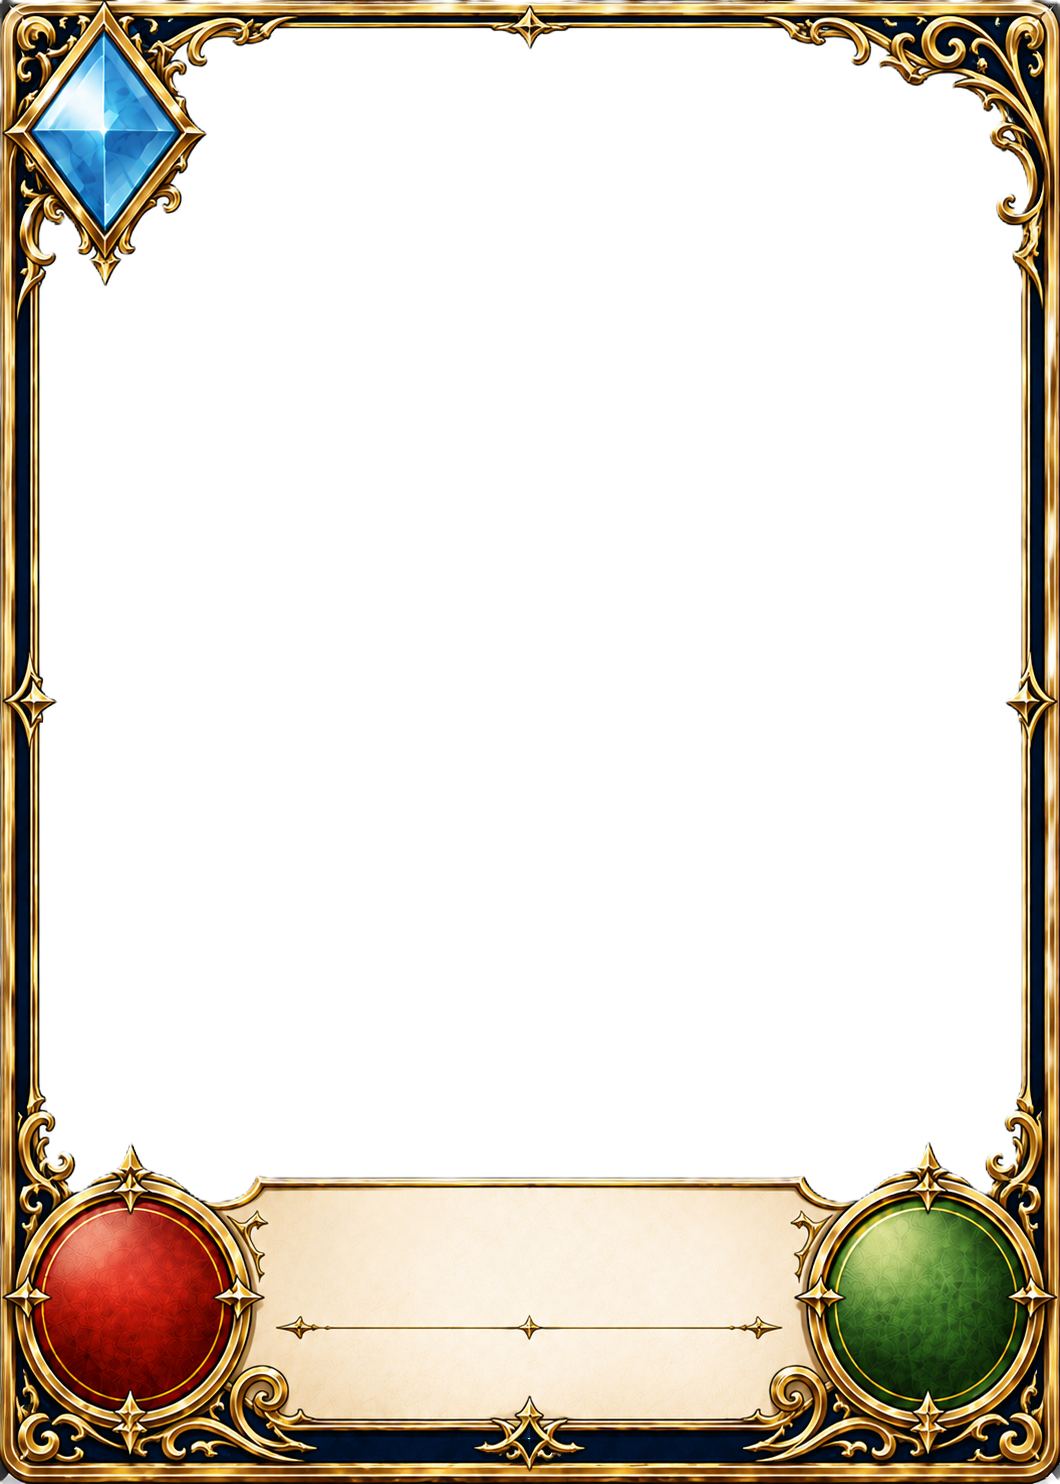
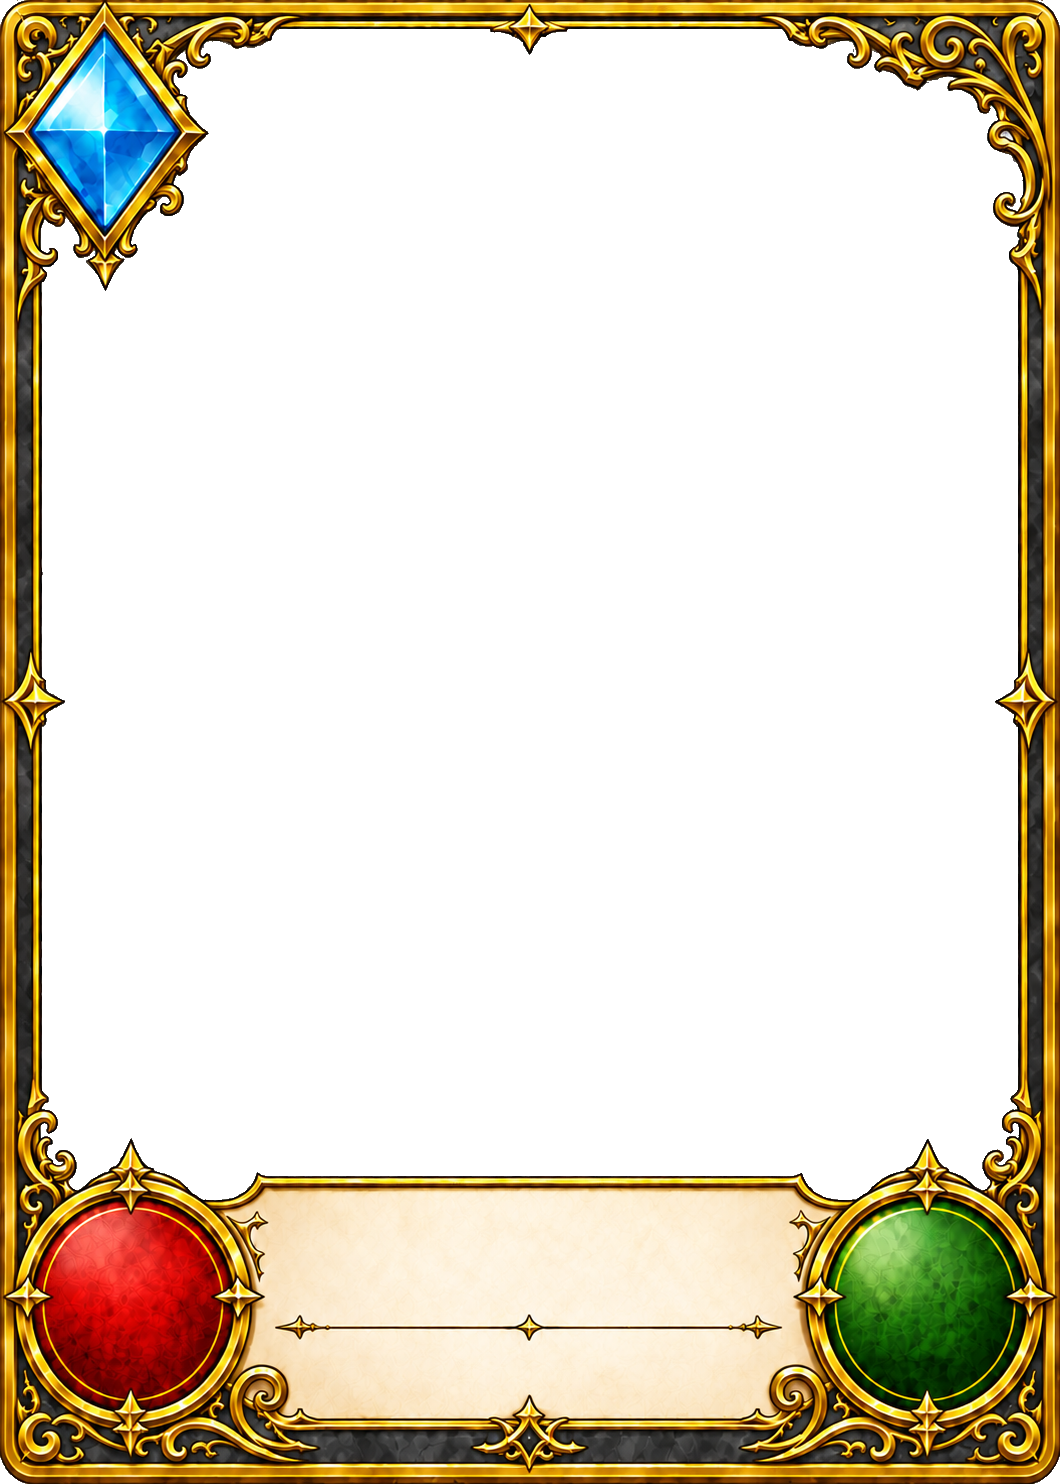
🎨 art: カード枠を刷新し、焔術士と占い師の枠を Wizard・Fortune に差し替える
- リーダー枠の名前帯とスキル欄を紙色にし、文字を濃い茶色に変更
- 「リーダー」の見出しを下中央の飾りと重ならない位置へ移動
- 焔術士は Wizard.png、占い師は Fortune.png を全種類で使う

Claude-Session: https://claude.ai/code/session_01NgtPqiWRhFtuTJFdhWqqr1

Changed region(s): [[0.0, 0.0, 1.0, 1.0], [0.467, 0.8679, 0.5292, 0.8989], [0.2802, 0.8679, 0.3113, 0.8989]]

diff --git a/カードフレーム/README.md b/カードフレーム/README.md
@@ -37,15 +37,15 @@
 
 | クラス | リーダー | 枠の色 | キャラクター | スペル | リーダー |
 |---|---|---|---|---|---|
-| 焔術士 | リーゼ | 赤 | `Pyromancer.png` | `Pyromancer.png` | `Pyromancer.png` |
-| 星詠み | エルナ | 紫 | `Astrologer.png` | `Astrologer.png` | `Astrologer.png` |
+| 焔術士 | リーゼ | 赤 | `Wizard.png` | `Wizard.png` | `Wizard.png` |
+| 星詠み | エルナ | 紫 | `Fortune.png` | `Fortune.png` | `Fortune.png` |
 | 司祭 | アルベル | 金 | `Priest.png` | `Priest.png` | `Priest.png` |
 | 魔族 | ヴァルカス | 黒紺 | `Demon.png` | `Demon.png` | `Demon.png` |
 
 **スペルの `Priest.png` と `Demon.png` は青の枠から色替えして作った。** 手順は下の「色替え」を参照。
 `Demon.png` の数値は `--hue 216 --sat 1.0136 --light 0.2689`（`キャラクター/戦士.png` と旧 `魔剣士.png` の対応画素51853点の中央値）。
 
-リーダー枠の名前帯とスキル欄は全クラス共通の紺色で、クラスの色は外周の帯だけに出る。
+リーダー枠の名前帯とスキル欄は全クラス共通の紙色で、クラスの色は外周の帯だけに出る。文字は濃い茶色で載せる。
 
 ## 未割り当ての枠
 
